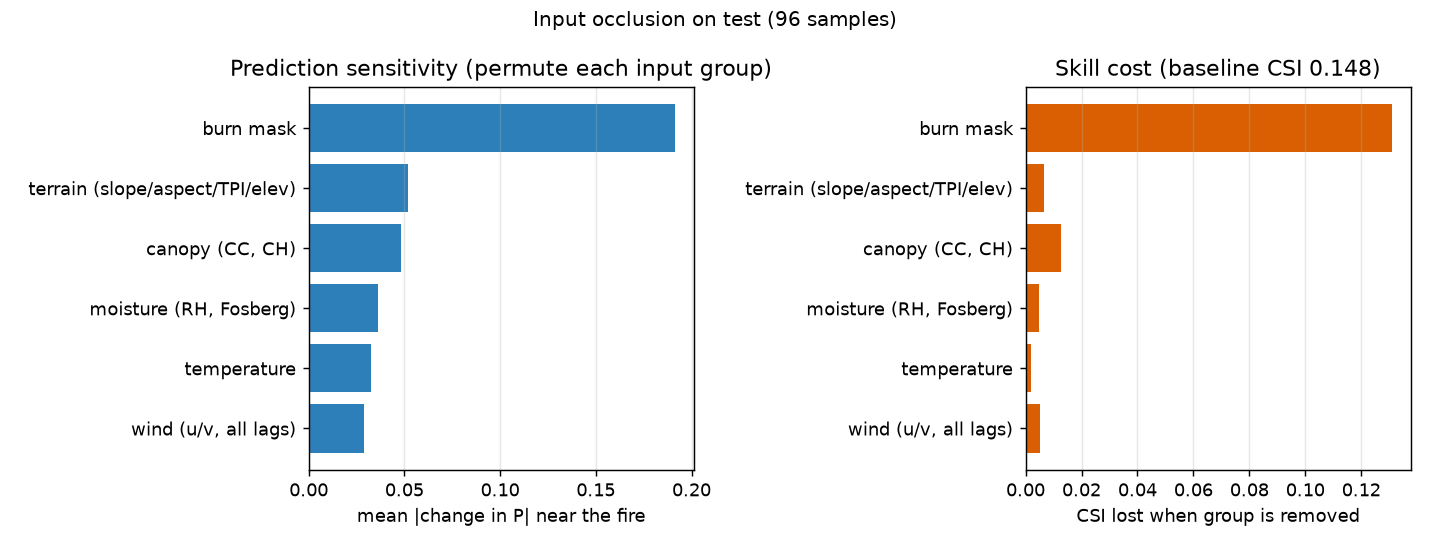
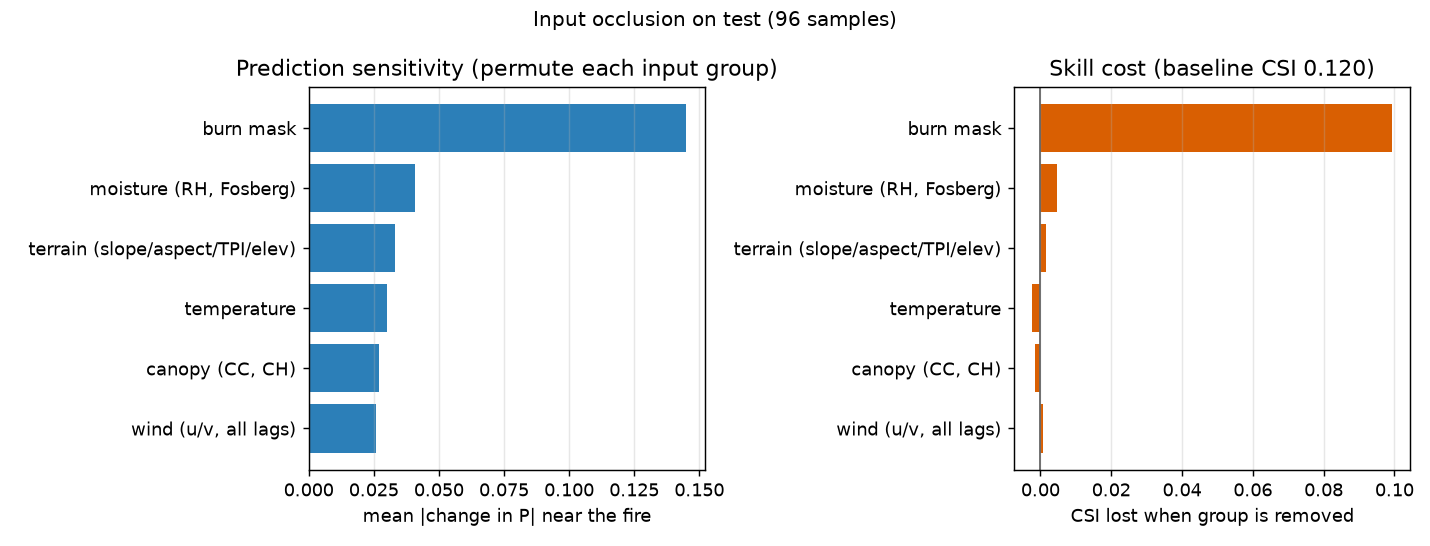
Incremental mask fails its criterion; the loss, not the input, concentrates skill
Three seeds of the incremental burn mask, plus two diagnostics that reframe what
to try next.

The incremental arm loses. Validation 0.2411 / 0.2397 / 0.2409, mean 0.2406
against baseline 0.2604, with a within-arm spread of 0.0014 -- a gap ~14x the
noise. More importantly it fails the criterion set before the run: the occlusion
profile had to shift, and it did not. The burn mask still carries 87.0% of skill
against 88.6% before, wind's contribution fell 5x to +0.0011, and terrain,
temperature and canopy went negative. The model did not redirect toward physics;
it got a worse mask and dilated that instead. A prediction recorded in advance --
that CSI might rise, since a cumulative interior is dead fire while the newest
incremental ring is the active front -- was wrong on both val and test.

Two diagnostics say where to go instead.

Binning test pixels by distance to the nearest burned cell shows skill is almost
entirely a near-ring effect: CSI 0.30 at 0.2 km decaying to 0.002 by 2 km and
0.000 past 3.2 km. Beyond 1.2 km the model is blind at POD 0.002, and 12% of all
real growth lives out there -- the actionable fraction, since a 100 m ring tells
a fire manager nothing they cannot already see.

The base rate collapses 2,400x across those bands, so weighting pixels by
distance would backfire by upweighting far negatives. The real finding is that
the single global pos_weight of 103 is itself part of the mechanism: bands need
[…]

diff --git a/analysis/wind_direction_check.py b/analysis/wind_direction_check.py
@@ -1,0 +1,62 @@
+"""Is growth direction related to wind direction IN THE DATA?
+
+Precondition for every fix aimed at making the model use HRRR. If the labels do
+not respond to wind, no architecture or loss change can create the signal.
+
+Convention: HRRR u = eastward, v = northward. The wind VECTOR (u,v) points where
+air is going, and fire runs downwind, so growth should align with (u,v).
+Rasters are north-up, so row increases southward: (east, north) = (+dcol, -drow).
+"""
+import numpy as np, yaml, sys
+from pipeline.dataset import WildfireDataset
+
+cfg = yaml.safe_load(open("configs/baseline.yaml", encoding="utf-8"))
+ds = WildfireDataset(cfg, "train", norm_stats={}, augment=False)   # raw units
+ch = {c: i for i, c in enumerate(ds.channels)}
+iu, iv, ib = ch["u10_lag0"], ch["v10_lag0"], ch["burn_mask"]
+print(f"{len(ds)} train samples; using channels u={iu} v={iv} burn={ib}", flush=True)
+
+rng = np.random.default_rng(0)
+take = rng.choice(len(ds), size=min(600, len(ds)), replace=False)
+
+rows = []
+for n, i in enumerate(take):
+    s = ds[int(i)]
+    x, tgt = np.asarray(s["input"]), np.asarray(s["target"])
+    cur = x[-1, ib] > 0.5                      # most recent step = current extent
+    grow = tgt > 0.5
+    if cur.sum() < 20 or grow.sum() < 20:
+        continue
+    rr, cc = np.nonzero(cur);   cur_row, cur_col = rr.mean(), cc.mean()
+    gr, gc = np.nonzero(grow);  gro_row, gro_col = gr.mean(), gc.mean()
+    de, dn = (gro_col - cur_col), -(gro_row - cur_row)   # growth vector, east/north
+    mag = float(np.hypot(de, dn))
+    if mag < 1e-6:
+        continue
+    u = float(x[-1, iu].mean()); v = float(x[-1, iv].mean())
+    spd = float(np.hypot(u, v))
+    if spd < 1e-6:
+        continue
+    # angle between growth vector and wind vector, degrees, 0 = perfectly downwind
+    cos = (de*u + dn*v) / (mag*spd)
+    rows.append((np.degrees(np.arccos(np.clip(cos, -1, 1))), mag, spd, grow.sum(), cos))
+    if n % 100 == 0: print(f"  {n}/{len(take)}", flush=True)
+
+a = np.array(rows)
+print(f"\nusable samples: {len(a)}")
+ang, mag, spd, gsz, cos = a[:,0], a[:,1], a[:,2], a[:,3], a[:,4]
+print(f"\nangle between growth and wind (0 deg = downwind):")
+for lo, hi in [(0,45),(45,90),(90,135),(135,180)]:
+    f = ((ang>=lo)&(ang<hi)).mean()
+    print(f"  {lo:3d}-{hi:3d} deg : {f:6.1%}   ({'downwind' if lo==0 else 'upwind' if lo==135 else 'cross'})")
+print(f"\n  mean angle      {ang.mean():.1f} deg   (90 = no relationship)")
+print(f"  mean cos        {cos.mean():+.4f}  (0 = no relationship, +1 = perfect)")
+print(f"  median wind spd {np.median(spd):.2f} m/s")
+
+# Does the relationship strengthen when wind is strong / growth is large?
+for name, key, qs in [("wind speed", spd, None), ("growth size", gsz, None)]:
+    print(f"\n  by {name} quartile:  mean cos")
+    q = np.quantile(key, [0,.25,.5,.75,1.0])
+    for j in range(4):
+        m = (key>=q[j]) & (key<=q[j+1] if j==3 else key<q[j+1])
+        if m.sum(): print(f"    Q{j+1} (n={m.sum():3d}): {cos[m].mean():+.4f}")

diff --git a/analysis/skill_by_distance.py b/analysis/skill_by_distance.py
@@ -1,0 +1,58 @@
+"""Where does the model's skill actually live, as a function of distance from the
+current perimeter?
+
+Sets the weights for any distance-weighted loss, and defines the metric that such
+a loss would have to be judged by. Bins every test pixel by its euclidean distance
+(in 100 m cells) to the nearest currently-burned cell, then reports per band:
+base rate of real growth, the model's CSI, and what share of all growth lives there.
+"""
+import numpy as np, torch, yaml
+from scipy.ndimage import distance_transform_edt
+from pipeline.dataset import WildfireDataset
+from pipeline.viz_predict import load_model
+
+cfg = yaml.safe_load(open("configs/baseline.yaml", encoding="utf-8"))
+dev = "cpu"
+cfg["model"]["hidden_dims"] = [112, 224, 448]   # load_model reads dims from cfg
+model, thr, _ = load_model(cfg, "unet", "checkpoints/unet_wide/best.pt", dev)
+model.eval()
+ds = WildfireDataset(cfg, "test", augment=False)
+ib = {c: i for i, c in enumerate(ds.channels)}["burn_mask"]
+print(f"test {len(ds)} samples, threshold {thr}", flush=True)
+
+EDGES = [0, 1, 2, 3, 5, 8, 12, 20, 32, 1e9]         # cells; 1 cell = 100 m
+NB = len(EDGES) - 1
+tp = np.zeros(NB); fp = np.zeros(NB); fn = np.zeros(NB); npx = np.zeros(NB); pos = np.zeros(NB)
+
+rng = np.random.default_rng(0)
+take = rng.choice(len(ds), size=min(200, len(ds)), replace=False)
+for n, i in enumerate(take):
+    s = ds[int(i)]
+    x = s["input"][None].to(dev)
+    with torch.no_grad():
+        p = torch.sigmoid(model(x, s["fuel"][None].to(dev))).cpu().numpy()[0, 0]
+    tgt = s["target"].numpy() > 0.5
+    cur = s["input"][-1, ib].numpy() > 0.5
+    if cur.sum() == 0:
+        continue
+    d = distance_transform_edt(~cur)                  # distance to nearest burned cell
+    pred = p >= thr
+    for b in range(NB):
+        m = (d >= EDGES[b]) & (d < EDGES[b+1])
+        if not m.any(): continue
+        tp[b] += (pred & tgt & m).sum(); fp[b] += (pred & ~tgt & m).sum()
+        fn[b] += (~pred & tgt & m).sum(); npx[b] += m.sum(); pos[b] += (tgt & m).sum()
+    if n % 50 == 0: print(f"  {n}/{len(take)}", flush=True)
+
+print(f"\n{'dist (cells)':>14} {'km':>6} {'base rate':>10} {'CSI':>7} {'POD':>6} {'FAR':>6} {'% of all growth':>16}")
+tot = pos.sum()
+for b in range(NB):
+    if npx[b] == 0: continue
+    lo, hi = EDGES[b], EDGES[b+1]
+    lbl = f"{lo:g}-{hi:g}" if hi < 1e8 else f"{lo:g}+"
+    km = f"{lo*0.1:.1f}+" if hi > 1e8 else f"{hi*0.1:.1f}"
+    csi = tp[b]/(tp[b]+fp[b]+fn[b]) if (tp[b]+fp[b]+fn[b]) else 0
+    pod = tp[b]/(tp[b]+fn[b]) if (tp[b]+fn[b]) else 0
+    far = fp[b]/(tp[b]+fp[b]) if (tp[b]+fp[b]) else float('nan')
+    print(f"{lbl:>14} {km:>6} {pos[b]/npx[b]:9.3%} {csi:7.4f} {pod:6.3f} {far:6.3f} {pos[b]/tot:15.1%}")
+print(f"\noverall CSI {tp.sum()/(tp.sum()+fp.sum()+fn.sum()):.4f}   total growth px {tot:,.0f}")

diff --git a/README.md b/README.md
@@ -1212,6 +1212,100 @@ cannot create signal the model is not using. The next lever is the input, not th
 `burn_mask_mode: incremental` removes the shortcut and forces the physical channels to carry
 weight.
 
+## Incremental burn mask: the shortcut was not the binding constraint
+
+```bash
+python train.py --config configs/incremental.yaml --model unet --hidden-dims 112,224,448 --seed 0
+python -m pipeline.viz_predict sensitivity --config configs/incremental.yaml --mode permute     --checkpoint checkpoints/inc_s0/best.pt --model unet --hidden-dims 112,224,448
+```
+
+If the cumulative mask is what lets the model coast on geometry, giving each step only that
+window's NEW burn should force the physical channels to carry weight. Single-variable against
+baseline, verified by diffing every leaf key of both YAMLs; three seeds.
+
+Validation CSI 0.2411 / 0.2397 / 0.2409, mean **0.2406** against the baseline's **0.2604**. The
+within-arm spread is 0.0014, so the -0.0198 gap is ~14x the noise: clearly worse.
+
+**The criterion was the occlusion profile, not CSI** — set before running, because CSI could move
+either way. Three-seed mean CSI lost to permutation:
+
+| group permuted | incremental | baseline (cumulative) |
+|---|---|---|
+| **burn mask** | **+0.1070** | +0.1310 |
+| moisture (RH, Fosberg) | +0.0026 | +0.0049 |
+| **wind (u/v, all lags)** | **+0.0011** | +0.0051 |
+| terrain | -0.0002 | +0.0066 |
+| temperature | -0.0011 | +0.0020 |
+| canopy (CC, CH) | -0.0034 | +0.0125 |
+
+Subset CSI 0.1478 -> 0.1230. The burn mask still accounts for **87.0%** of skill against 88.6%
+before — unchanged. Wind's contribution *fell* 5x, and terrain, temperature and canopy went
+negative, i.e. indistinguishable from noise.
+
+**Verdict: the input representation of the mask was not the binding constraint.** The model did
+not redirect toward physics; it got a worse mask and dilated that instead. A prediction recorded
+before the run — that CSI might *rise*, since a cumulative mask's interior is dead fire while the
+most recent incremental ring is the active front — was wrong on both validation and test.
+
+## Where the skill lives: the loss is concentrating it on the near ring
+
+Test pixels binned by distance to the nearest currently-burned cell (1 cell = 100 m):
+
+| distance | base rate | CSI | POD | % of all growth |
+|---|---|---|---|---|
+| 1-2 (0.2 km) | 14.58% | 0.2999 | 0.781 | 30.6% |
+| 2-3 (0.3 km) | 10.87% | 0.2546 | 0.655 | 19.4% |
+| 3-5 (0.5 km) | 6.92% | 0.1822 | 0.465 | 16.4% |
+| 5-8 (0.8 km) | 3.35% | 0.1122 | 0.233 | 14.2% |
+| 8-12 (1.2 km) | 1.48% | 0.0406 | 0.067 | 7.5% |
+| **12-20 (2 km)** | 0.63% | **0.0020** | **0.002** | 7.0% |
+| **20-32 (3.2 km)** | 0.18% | **0.0000** | 0.000 | 3.4% |
+| **32+** | 0.006% | **0.0000** | 0.000 | 1.6% |
+
+**Beyond 1.2 km the model is blind (POD 0.002) and 12% of all real growth is out there** — the
+operationally actionable fraction, since a 100 m ring tells a fire manager nothing they cannot see.
+
+The base rate collapses 2,400x across these bands, which explains why a naive "weight pixels by
+distance" would backfire: it would mostly upweight far NEGATIVES, 99.99% of the far field, pushing
+far predictions harder toward zero.
+
+The real finding is that a single global `pos_weight` of ~103 is itself part of the problem. The
+value each band needs is `(1-p)/p`:
+
+| band | needed | applied | effect |
+|---|---|---|---|
+| 1-2 | 5.9 | 103 | positives over-weighted **17x** |
+| 3-5 | 13.5 | 103 | over-weighted 7.6x |
+| 8-12 | 66.6 | 103 | about right |
+| 12-20 | 157 | 103 | under-weighted |
+| 20-32 | 551 | 103 | under-weighted 5.4x |
+
+So the loss instructs the model to pile mass on the near ring and ignore the far field. The
+dilation behaviour is not only an input shortcut — it is partly the class balancing. Per-band
+rebalancing is the principled fix: far positives count more because they are rarer, without
+amplifying far negatives. Two guardrails: cap the outer weight (the 32+ band implies ~16,700, and
+far positives are disproportionately spotting, separate ignitions and merge artifacts — the
+noisiest labels in the set, flagged in Phase 8), and define a distance-stratified CSI *before*
+training, since this will likely lower pooled CSI by design. The `reg_aug` episode is the warning:
+the wrong metric made a broken model look like the best run in the project.
+
+### Does the data even support wind-driven prediction?
+
+Precondition check before any of this, on 469 training samples — angle between the growth-centroid
+vector and the tile-mean wind vector:
+
+| | share |
+|---|---|
+| downwind (0-45 deg) | 34.5% |
+| cross (45-135 deg) | 44.7% |
+| upwind (135-180 deg) | 20.7% |
+
+Mean cos **+0.166**. Weak, but real — and the validation is that it strengthens with wind speed:
+mean cos by wind quartile is **+0.027 / +0.157 / +0.309 / +0.171**. A sign error, a grid-relative
+vs earth-relative mix-up, or a time misalignment would not produce a clean rise from calm to
+strong. **The HRRR ingest is correct and the labels do respond to wind.** But the ceiling is low:
+the model's 0.005 CSI from wind is an underuse of what is there, not a missing 0.2.
+
 ## Storage budget — do NOT materialise samples
 
 Measured on this machine: **83 GB free of 475 GB.** That is the binding constraint on the whole
